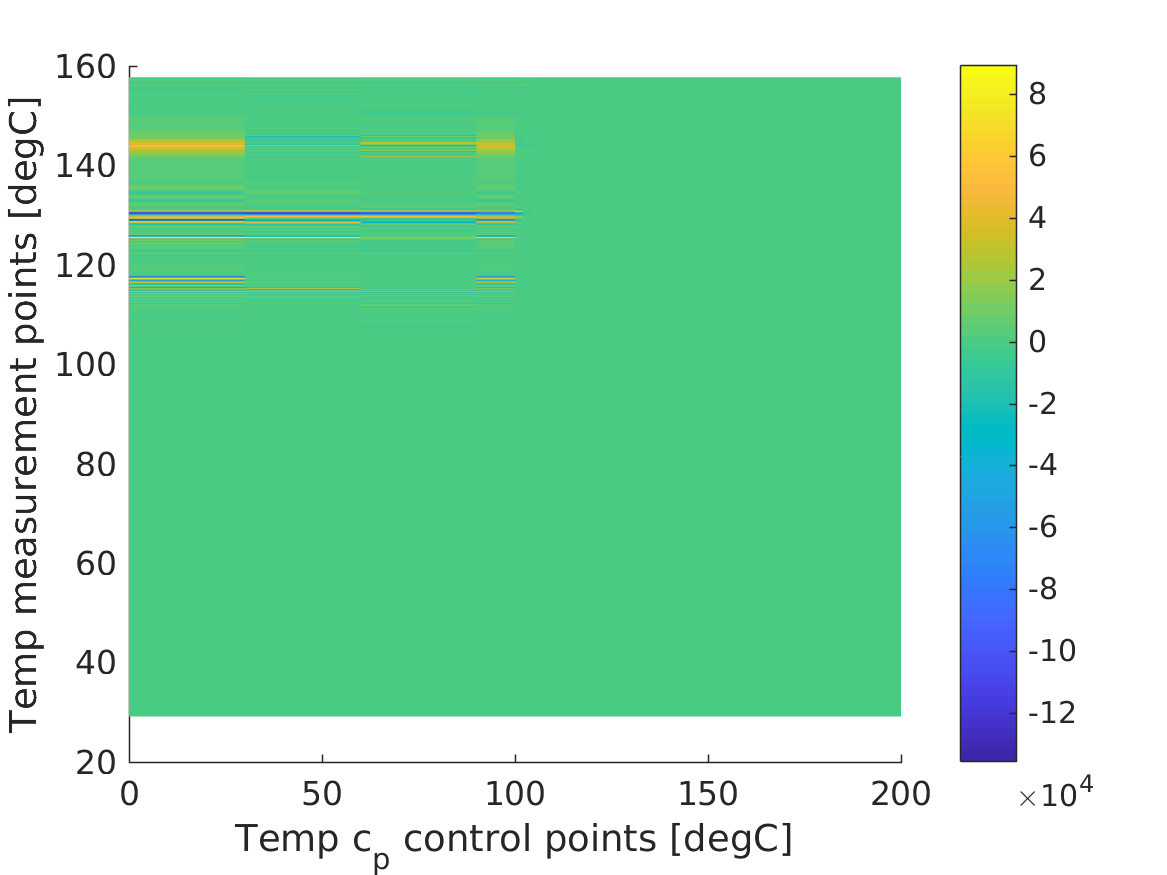
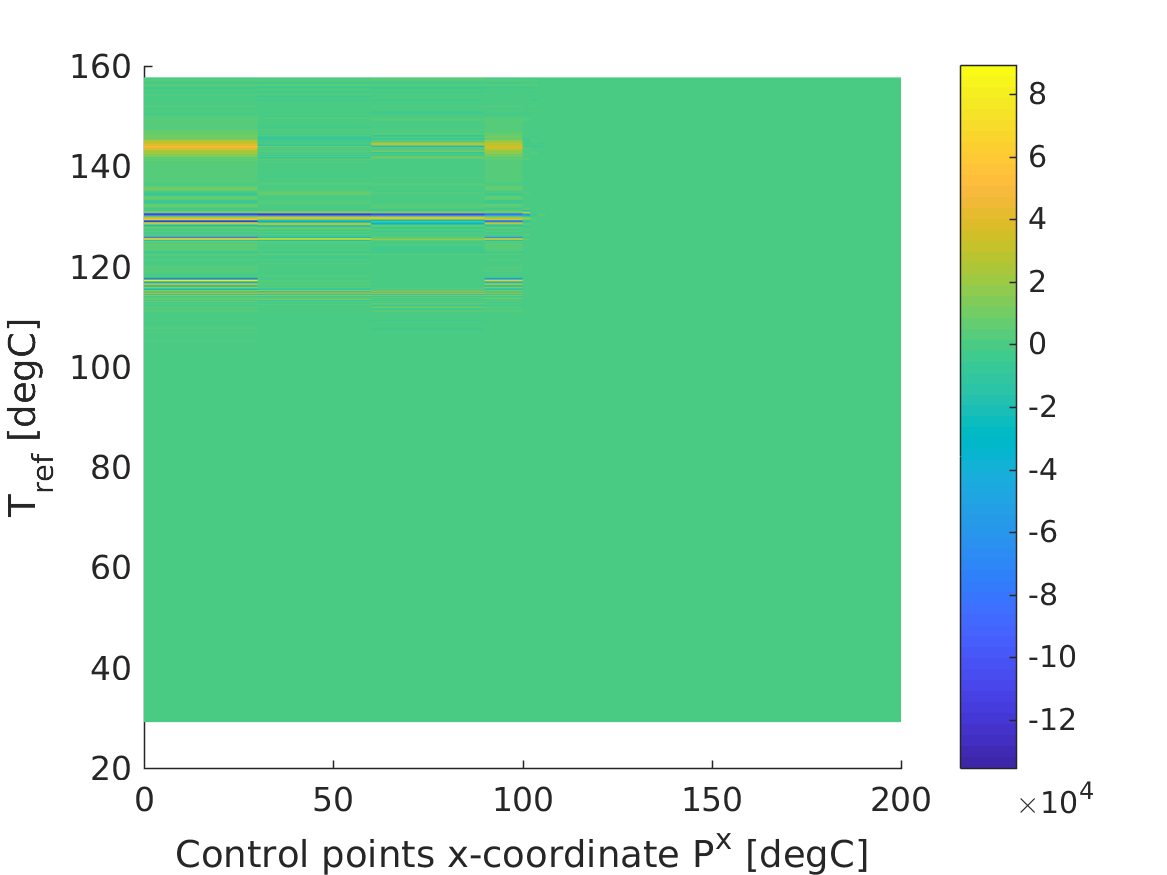
updated NURBS param estimation part in thesis

diff --git a/thesis/thesis.tex b/thesis/thesis.tex
@@ -2179,9 +2179,7 @@ All experiments have been done on my laptop using Linux Ubuntu Mate, 2 Cores Int
 
 \subsection{Smearing effect on simulated heat flux for different heat rates}
 The first basic numerical experiment shows that our mathematical model is capable of reproducing heat fluxes exhibiting the smearing effect similar to those measured (see \cref{sec:smearing_problem}). This was achieved by a forward simulation, i.e. solving \cref{eq:heat_equation_discretized} for several different heat rates using the same specific heat capacity (see \cref{fig:smearing_effect_c_p}) each time. \\
-The resulting heat fluxes for all heat rates from the forward simulation can be seen in \cref{fig:smearing_effect_simulation_heat_flux}. They exhibit obviously a widening of the peak and a shift of the maximum to higher temperatures for increasing heat rates similar to the measured heat fluxes shown in \cref{fig:smearing_effect_measurement_heat_flux}. \\
-This result forms the basis of reproducing the heat flux measurement values by performing a parameter estimation in the following numerical experiments in order to obtain the specific heat capacity.\\
-% in the simulation and in the further numerical experiments perform a parameter estimation to obtain the specific heat capacity. \\
+The resulting heat fluxes for all heat rates from the forward simulation can be seen in \cref{fig:smearing_effect_simulation_heat_flux}. They exhibit obviously a widening of the peak and a shift of the maximum to higher temperatures for increasing heat rates similar to the measured heat fluxes shown in \cref{fig:smearing_effect_measurement_heat_flux}. This forms the basis of reproducing the heat flux measurement values by performing a parameter estimation in the following numerical experiments in order to obtain the specific heat capacity.\\
 
 
 
@@ -2212,7 +2210,7 @@ This result forms the basis of reproducing the heat flux measurement values by p
 \subsection{Preliminary parameter estimation using NURBS parametrization and optimization jacobian computed via finite differences}
 \label{sec:param_estim_NURBS}
 
-For the first attempt of estimating $c_p(T)$  we used the NURBS parametrization (see \cref{sec:nurbs}). In total we used 33 control points where the y-coordinates ($\hat{=} c_p$) are optimization variables and the the x-coordinate ($\hat{=}$ temperature) were fixed to 
+For the first attempt of estimating $c_p(T)$  we used the NURBS parametrization (see \cref{sec:nurbs}). In total we used 33 control points where the y-coordinates ($\hat{=}$ $c_p$) are optimization variables and the the x-coordinate ($\hat{=}$ $T$) were fixed to 
 
 \begin{equation}
 	P^x = [0, 30, 60, 90, 100, 102, 104, ..., 148, 150, 160, 180, 200]
@@ -2221,25 +2219,34 @@ For the first attempt of estimating $c_p(T)$  we used the NURBS parametrization 
 such that the peak has enough degrees of freedom for temperatures $T \in [100, 150]$. \\
 Due to the early working state we used the matlab routines $ode15s$ for integration and $lsqnonlin$ to solve the least squares problem where the Jacobian was computed via external numerical differentiation. The integration tolerance was set here to $10^{-7}$ as well. Besides that material properties of Constantan were used instead of silver for the heat transport plate from furnace to PCM. In particular these are $c_{p,Const}=0.41\frac{mJ}{mg \ K}$, $\rho_{Const}=10.49\frac{mg}{mm^3}$ and $\lambda_{Const}=23\frac{mW}{mm \ K}$. \\
 Minimizing the heat flux residuum worked best in this setting for $L_{Const}=15mm$ (instead of $L_{Ag}$ here) and $L_{pcm}=0.5mm$. \\
-The results after optimizing, using the measurement data of heat rate $\beta = 10 \frac{K}{min}$, are shown in \cref{fig:NURBS_results}. As one can see it was possible to minimize the residuum of heat flux quite well aside from some oscillations which have their origin in $c_p(T)$ due to numerical problems. Beside the oscillations there is one major difference in the peak shape from what we would expect, that is after the peak a temporary decrease followed by a big slope.
-Finally $lsqnonlin$ gives us the approximation of the used Jacobian $J_1(p_{c_p})$ at the end of the optimization process which was computed internally via finite differences, see \cref{fig:NURBS_results}c. Since in our NURBS parametrization the y-coordinates of the control points are free optimization variables and the locality of those the x-axis of these Jacobian plots was set being the x-coordinates of the control points. This way there is a direct connection between $J_1(p_{c_p})$ and which zone of $c_p(T)$ it affects. The y-axis was labeled using the reference crucible temperature since the heat flux measurement values are given as a function of those, analog to the heat flux plot.
-Two things are worth mentioning. First the order of magnitude which is increased by several orders for areas of $c_p(T)$ up to temperatures of $100^\circ C$ and measurement values above $110^\circ C$ reference temperature during phase transition. Interestingly the specific heat capacity's oscillations occur in a zone of low sensitivities which explains why $lsqnonlin$ does not improve here further. 
+The results after optimizing, using the measurement data of heat rate $\beta = 10 \frac{K}{min}$, are shown in \cref{fig:NURBS_results}. As one can see it was possible to minimize the heat flux residuum quite well aside from some oscillations which have their origin in $c_p(T)$. 
+Beside the oscillations there is one major difference in the peak shape of the specific heat capacity from what we would expect. That is after the peak a temporary decrease followed by a big slope.
+Finally $lsqnonlin$ gives us the approximation of the used Jacobian $J_1(p_{c_p})$ at the end of the optimization process which was computed internally via finite differences, see \cref{fig:NURBS_results}c. Since in our NURBS parametrization the y-coordinates of the control points are free optimization variables and the locality property of those the x-axis of these Jacobian plots was set being the x-coordinates ($\hat{=}$ temperature) of the control points. This way there is a direct connection between $J_1(p_{c_p})$ and which zone of $c_p(T)$ it affects. The y-axis was labeled using the reference crucible temperature $T_{ref}$ since the heat flux measurement values are given as a function of those, analog to the heat flux plot.
+Two things are worth mentioning. First there is an increase of several orders of magnitude for areas of $c_p(T)$ up to temperatures of $100^\circ C$ and $T_{ref}$ above $110^\circ C$ during phase transition. Interestingly the specific heat capacity's oscillations occur in a zone of low sensitivities which explains why $lsqnonlin$ does not improve here further. 
 Secondly considering the zone of increased magnitude in detail (see \cref{fig:NURBS_results}d) one recognize sign switching oscillations where continuity is expected. This is a strong indication that the approximation of $J_1(p_{c_p})$ via finite differences is of poor quality and not reliable why we switch to internal numerical differentiation later. \\
 The optimization took in this case about 40 minutes on my laptop and stopped because the norm of step was below the tolerance $10^{-6}$.
 
 
 \begin{figure}[H]
-	\subcaptionbox{Heat flux into PCM $\varPhi_q^{pcm,in}$ measurement values (dashed red), simulation (blue) and corresponding residuum (yellow).}[.49\linewidth]
-	{\includegraphics[width=0.49\textwidth]{/home/argo/masterarbeit/thesis/images/NURBS_heat_flux.png}}
-	\subcaptionbox{Specific heat capacity $c_p(T)$ obtained by parameter estimation.}[.49\linewidth]
-	{\includegraphics[width=0.49\textwidth]{/home/argo/masterarbeit/thesis/images/NURBS_c_p(T).png}}
-
-	\subcaptionbox{Approximated Jacobian $J_1(p_{c_p})$.}[.49\linewidth]
-	{\includegraphics[width=0.49\textwidth]{/home/argo/masterarbeit/thesis/images/NURBS_jac2.png}}
-	\hspace{0.5cm}
-	\subcaptionbox{Zoomed view of approximated $J_1(p_{c_p})$.}[.49\linewidth]
-	{\includegraphics[width=0.49\textwidth]{/home/argo/masterarbeit/thesis/images/NURBS_jac_zoom2.png}}
-	\caption{Specific heat capacity, heat flux and optimization Jacobian at the end of the optimization process.}
+	\begin{subfigure}{0.49\textwidth}
+		\includegraphics[width=1.\textwidth]{/home/argo/masterarbeit/thesis/images/NURBS_heat_flux.png}
+		\caption{}
+	\end{subfigure}
+	\begin{subfigure}{0.49\textwidth}
+		\includegraphics[width=1.\textwidth]{/home/argo/masterarbeit/thesis/images/NURBS_c_p(T).png}
+		\caption{}
+	\end{subfigure}
+	\begin{subfigure}{0.49\textwidth}
+		\hspace{0.1cm}
+		\includegraphics[width=1.\textwidth]{/home/argo/masterarbeit/thesis/images/NURBS_jac2.png}
+		\caption{}
+	\end{subfigure}
+	\begin{subfigure}{0.49\textwidth}
+		\hspace{0.4cm}
+		\includegraphics[width=1.\textwidth]{/home/argo/masterarbeit/thesis/images/NURBS_jac_zoom2.png}
+		\caption{}
+	\end{subfigure}
+	\caption{(a) Heat flux into PCM $\varPhi_q^{pcm,in}$ measurement values (dashed red), simulation (blue) and corresponding residuum (yellow). (b) Specific heat capacity $c_p(T)$ obtained by parameter estimation. (c) Approximated Jacobian $J_1(p_{c_p})$, note the big differences in order of magnitude. (d) Zoomed view of oscillations in approximated $J_1(p_{c_p})$.}
 	\label{fig:NURBS_results}
 \end{figure}
 

diff --git a/code/testing2.m b/code/testing2.m
@@ -511,7 +511,8 @@ fig = open([root_dir, 'jac_output.fig']);
 colormap('parula')
 set(gca,'FontSize',12);
 
-
+xlabel('Control points x-coordinate P^x [degC]');
+ylabel('T_{ref} [degC]')
 
 print(fig, '/home/argo/masterarbeit/thesis/images/NURBS_jac2', '-dpng', '-r200');
 
